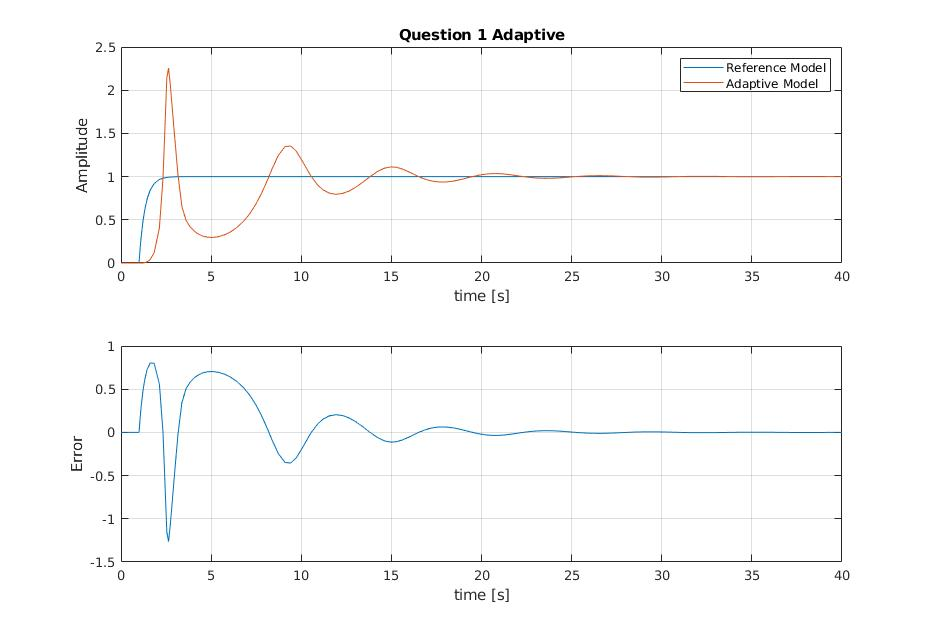
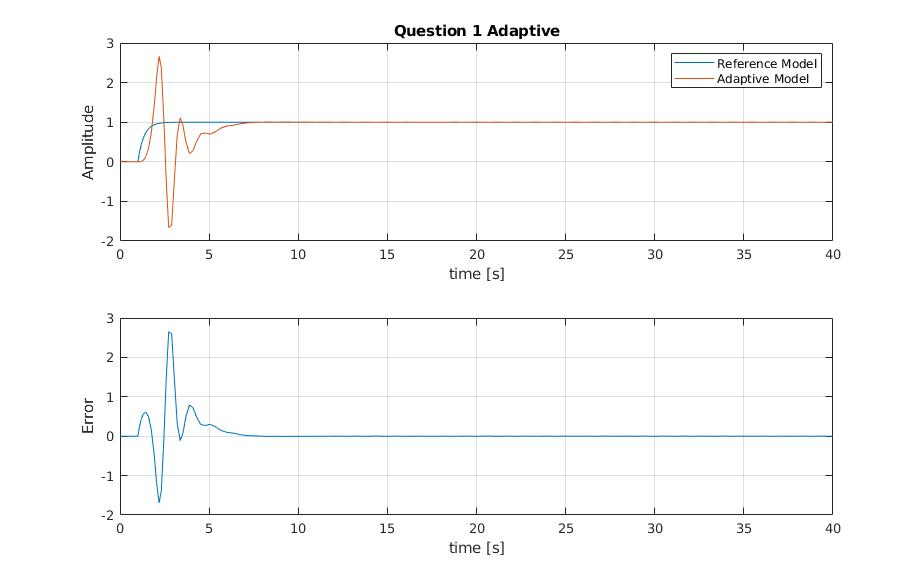
Just regular done awesome stuff

diff --git a/AE4304P/RUN.m b/AE4304P/RUN.m
@@ -6,9 +6,8 @@
 % A lot of the code used in this assignment was adopted from the lecture
 % notes of the course AE4304. 
 %%
-clc; clear all; close all;
-
-Flag =1; %0 for Full model and 1 for reduced!
+clc; clear all;
+Flag =0; %0 for Full model and 1 for reduced!
 
 if Flag==0
     AircraftModel %Loads Full Aircraft Model.
@@ -79,7 +78,7 @@ Cd =  A2(1,:);                  %First row of A matrix
 C  =  [ Cd ; zeros(size(Cd)) ]; 
 C(2,4) = 2*V/b;                 %Yaw rate Extraction
 C  =  [ V  V ]*C; %Extract The new C matrix with multiplying with V factors.
-D  =  B(1,:);
+D  =  [V V]*[B(1,:);B(4,:)];
 sys_ay  =   ss(A2,B,C,D);
 Ay = lsim(sys_ay,u,t);
 figure;
@@ -102,6 +101,6 @@ Variance_Function = [ var(Y(:,1:4))' ; var(Ay) ];
 Variance_Analytical = [trapz(df,S_Y(1:end,1));trapz(df,S_Y(1:end,2));trapz(df,S_Y(1:end,3));trapz(df,S_Y(1:end,4));trapz(df,S_Ay(1:end))];
 Variance_Lyapunov = lyap(A2,B(:,end-1:end)*B(:,end-1:end)');
 Variance_Lyapunov = diag(Variance_Lyapunov);
-Variance_Lyapunov = [Variance_Lyapunov(1:4); ((C.*C)*Variance_Lyapunov)];
+Variance_Lyapunov = [Variance_Lyapunov(1:4); C*lyap(A2,B(:,end-1:end)*B(:,end-1:end)')*C'];
 Table = table(Names_of_States,Variance_Function,Variance_Analytical,Variance_Lyapunov);
 disp(Table);

diff --git a/AE4304P/PSD_Compare.m b/AE4304P/PSD_Compare.m
@@ -1,0 +1,38 @@
+clear all;
+Fs = 100; df = 2*pi*Fs/length(1:100000);
+freq = [0 : df : 2*pi*Fs/2];
+for i=1:4
+    figure;
+    load dumpfile
+    C=eye(size(A2,1));
+    D=zeros(size(A2,1),size(B,2));
+    tmp=bode(A2,B,C(i,:),D(i,:),size(D,2),freq);
+    S(:,i)=tmp.*tmp;
+    tmp=bode(A2,B,C(i,:),D(i,:),size(D,2)-1,freq);
+    S(:,i)=S(:,i)+tmp.*tmp;
+    loglog(freq,S(:,i))
+    hold on
+    load dumpfile2
+    C=eye(size(A2,1));
+    D=zeros(size(A2,1),size(B,2));
+    tmp=bode(A2,B,C(i,:),D(i,:),size(D,2),freq);
+    S(:,i)=tmp.*tmp;
+    tmp=bode(A2,B,C(i,:),D(i,:),size(D,2)-1,freq);
+    S(:,i)=S(:,i)+tmp.*tmp;
+    loglog(freq,S(:,i))
+         switch(i)
+            case 1 
+                ylabel('Side Slip Angle [rad]')
+                title('Power Spectral Density Side Slip');
+            case 2 
+                ylabel('Roll Angle [rad]')
+                title('Power Spectral Density Roll Angle');
+            case 3 
+                ylabel('pb/2V')
+                title('Power Spectral Density pb/2V');
+            case 4 
+                ylabel('rb/2V')
+                title('Power Spectral Density rb/2V');
+        end
+        grid on;
+end

diff --git a/Adaptive3.m b/Adaptive3.m
@@ -11,7 +11,7 @@ B=[1,0,0;0,1,0];
 C=[-2,-4];
 D=[3,0,-1.5];
 sim("Ass3.slx");
-sim("Ass3_2.slx");
+sim("Ass3_2_2.slx");
 figure;
     subplot(2,1,1)
     sz=size(Q1_adaptive.time);
@@ -50,7 +50,7 @@ figure;
 K=-ss_mo.a+ss_pl.a;
 K=K(1,:);
 l=50/1.5;
-flag =0; %Set as 0 for sine, 1 for step.
+flag =1; %Set as 0 for sine, 1 for step.
 sim("Ass3Q2_1");
     figure;
     subplot(2,1,1);
@@ -115,3 +115,19 @@ sim("Ass3Q2_2");
     xlabel('time [s]');
     ylabel('Error');
 %% Output feedback
+sim("Ass3Q2_4");
+    figure;
+    subplot(2,1,1);
+    sz=size(Q2_2_opf.time);
+    plot(Q2_2_opf.time, reshape(Q2_2_opf.signals(1).values,sz), Q2_2_opf.time, reshape(Q2_2_opf.signals(2).values,sz));
+    grid on
+    legend('Reference Model','Plant with Calculated feedback Parameters');
+    xlabel('time [s]');
+    ylabel('Amplitude');
+    title('Question 2 Output feedback');
+    subplot(2,1,2)
+    sz=size(ErrorQ2_2.time);
+    plot(ErrorQ2_2.time, reshape(ErrorQ2_2.signals.values,sz));
+    grid on
+    xlabel('time [s]');
+    ylabel('Error');

diff --git a/AE4304P/PSD_exp.m b/AE4304P/PSD_exp.m
@@ -32,7 +32,7 @@ if size(x,2)==1
     C  =  [ Cd ; zeros(size(Cd)) ];
     C(2,4) = 8.9671;
     C  =  [ V  V ]*C;
-    D  =  B(1,:);
+    D  =  [V V]*[B(1,:);B(4,:)];
     tmp=bode(A2,B,C,D,size(D,2),freq);
     S=tmp.*tmp;
     tmp=bode(A2,B,C,D,size(D,2)-1,freq);
